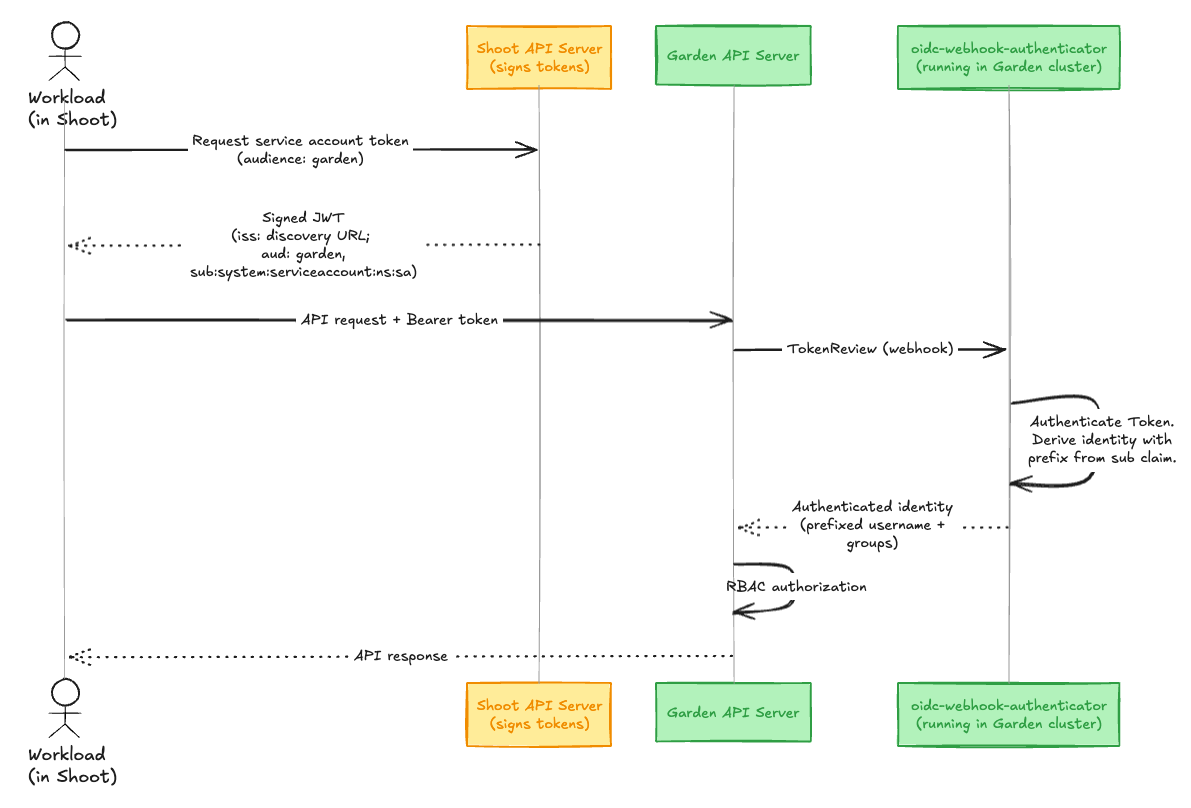
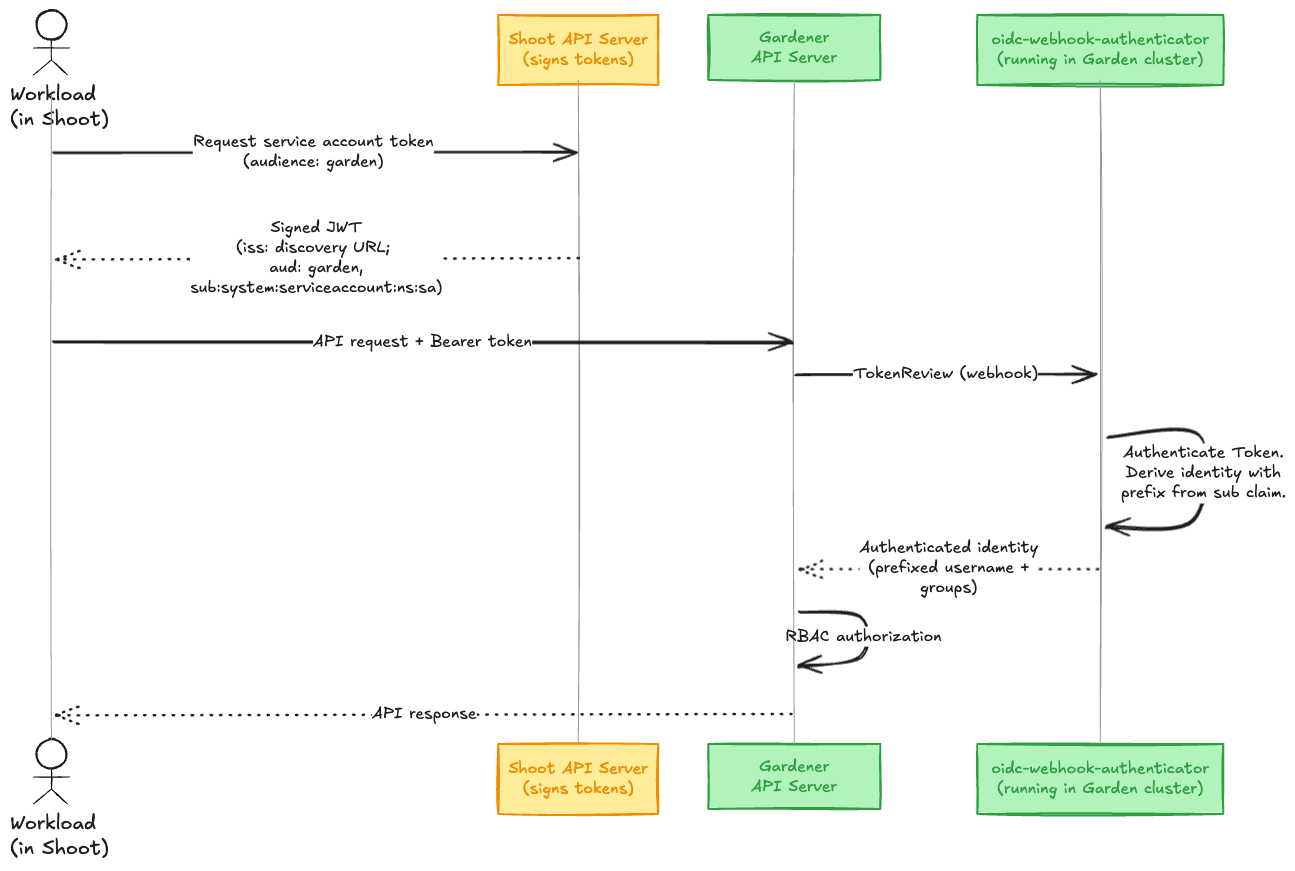
Address comments

diff --git a/website/documentation/guides/administer-shoots/garden-shoot-trust.md b/website/documentation/guides/administer-shoots/garden-shoot-trust.md
@@ -1,6 +1,6 @@
 ---
 title: Enabling Trust Between Shoot and Garden Clusters
-description: "Set up OIDC-based trust so shoot service accounts can authenticate directly with the Garden cluster"
+description: "Set up OIDC-based trust so shoot service accounts can authenticate directly with the garden cluster"
 level: intermediate
 index: 40
 category: Security
@@ -9,10 +9,10 @@ scope: operator
 
 ## Overview
 
-This guide explains how to enable trust between the Garden cluster and a shoot cluster so that workloads running in the shoot can authenticate directly with the Garden API server using Kubernetes service account tokens (JWTs), removing the need for static credentials. Authorization decisions are then handled by RBAC in the Garden cluster. 
+This guide explains how to enable trust between the garden cluster and a shoot cluster so that workloads running in the shoot can authenticate directly with the Gardener API server using Kubernetes service account tokens (JWTs), removing the need for static credentials. Authorization decisions are then handled by RBAC in the garden cluster. 
 Example use cases:
 - A shoot cluster that manages Gardener resources for a specific organization
-- CI/CD pipelines running in a shoot that interact with the Garden API
+- CI/CD pipelines running in a shoot that interact with the Gardener API
 
 ## How It Works
 ### Setup - TL;DR
@@ -25,16 +25,16 @@ annotations:
     authentication.gardener.cloud/trusted: 'true'
 ```
 
-Additionally, RBAC rules in the Garden cluster should grant permissions to the shoot's service account identity which will perform requests to the Garden cluster.
+Additionally, RBAC rules in the garden cluster should grant permissions to the shoot's service account identity which will perform requests to the garden cluster.
 
 ### Authentication 
-The authentication flow, when a request is made is:
+When a request is made, the authentication flow is:
 
 ![Garden Shoot Trusted](./images/garden-shoot-trust.png)
-The following components help to enable this feature in the Garden cluster:
+The following components help to enable this feature in the garden cluster:
 
 - **[Managed Service Account Issuer (GEP-24)](https://github.com/gardener/enhancements/tree/main/geps/0024-shoot-oidc-issuer)**: Configures the shoot API server to sign service account tokens with a Gardener-managed key pair. The corresponding OIDC discovery documents and JWKS are served publicly by the Gardener Discovery Server.
-- **[oidc-webhook-authenticator (OWA)](https://github.com/gardener/oidc-webhook-authenticator)**: A webhook token authenticator deployed in the Garden cluster that validates OIDC tokens from trusted issuers.
+- **[oidc-webhook-authenticator (OWA)](https://github.com/gardener/oidc-webhook-authenticator)**: A webhook token authenticator deployed in the garden cluster that validates OIDC tokens from trusted issuers.
 - **[garden-shoot-trust-configurator](https://github.com/gardener/garden-shoot-trust-configurator)**: A controller that watches for shoots annotated as trusted and automatically creates the corresponding OIDC resources consumed by OWA.
 
 ## How to establish trust?
@@ -42,14 +42,14 @@ The following components help to enable this feature in the Garden cluster:
 We will follow an example setup where a shoot will contain a health-reporter workload. It monitors the health status of all shoots in a Gardener project by querying the Garden API.
 
 ```bash
-# Target Shoot cluster
+# Target shoot cluster
 kubectl create namespace health-reporter
 kubectl create serviceaccount health-reporter -n health-reporter
 ```
 
 ### Step 1: Enable Managed Issuer
 
-By enabling a managed service account issuer, Gardener configures the shoot API server to sign service account tokens with a managed key pair. The Gardener Discovery Server then exposes the corresponding OIDC discovery documents and JWKS at a publicly accessible URL, allowing the Garden cluster to verify the token signatures.
+By enabling a managed service account issuer, Gardener configures the shoot API server to sign service account tokens with a managed key pair. The Gardener Discovery Server then exposes the corresponding OIDC discovery documents and JWKS at a publicly accessible URL, allowing the garden cluster to verify the token signatures.
 
 Add the annotation to your shoot:
 
@@ -118,16 +118,16 @@ Decode the JWT to verify its claims:
 
 ### Step 2: Annotate Shoot as Trusted
 
-To have the Garden cluster trust this shoot's issuer, add the trusted annotation:
+To have the garden cluster trust the shoot's issuer, add the annotation:
 
 ```yaml
 annotations:
     authentication.gardener.cloud/trusted: 'true'
 ```
 
-The [`garden-shoot-trust-configurator`](https://github.com/gardener/garden-shoot-trust-configurator) watches for shoots with this annotation and automatically creates OIDC custom resources. These resources are consumed by the [`oidc-webhook-authenticator`](https://github.com/gardener/oidc-webhook-authenticator), which validates tokens presented to the Garden API server.
+The [`garden-shoot-trust-configurator`](https://github.com/gardener/garden-shoot-trust-configurator) watches for shoots with this annotation and automatically creates OIDC custom resources. These resources are consumed by the [`oidc-webhook-authenticator`](https://github.com/gardener/oidc-webhook-authenticator), which validates tokens presented to the Gardener API server.
 
-In essence, this will create the following OIDC resource in the Garden cluster:
+In essence, this will create the following OIDC resource in the garden cluster:
 ```yaml
 apiVersion: authentication.gardener.cloud/v1alpha1
 kind: OpenIDConnect
@@ -152,12 +152,12 @@ spec:
 
 ### Step 3: Configure RBAC
 
-Authentication (token verification) is now handled automatically, but the authenticated identity has no permissions by default. You must create RBAC rules in the Garden cluster to authorize the requested actions.
+Authentication (token verification) is now handled automatically, but the authenticated identity has no permissions by default. You must create RBAC rules in the garden cluster to authorize the requested actions.
 
 We need a `Role` that grants read access to `Shoot` resources and a `RoleBinding` that binds it to the shoot's ServiceAccount identity:
 
 ```bash
-# Target Garden cluster
+# Target garden cluster
 kubectl apply -f - <<EOF
 apiVersion: rbac.authorization.k8s.io/v1
 kind: Role
@@ -194,10 +194,10 @@ EOF
 
 ### Step 4: Verification
 
-Test that we are authenticated and authorized by requesting a token from the shoot and making a request to the Garden API server:
+Test that we are authenticated and authorized by requesting a token from the shoot and making a request to the Gardener API server:
 
 ```bash
-# Shoot cluster
+# Target shoot cluster
 TOKEN=$(kubectl create token health-reporter -n health-reporter --audience garden)
 
 curl -k -H "Authorization: Bearer $TOKEN" \
